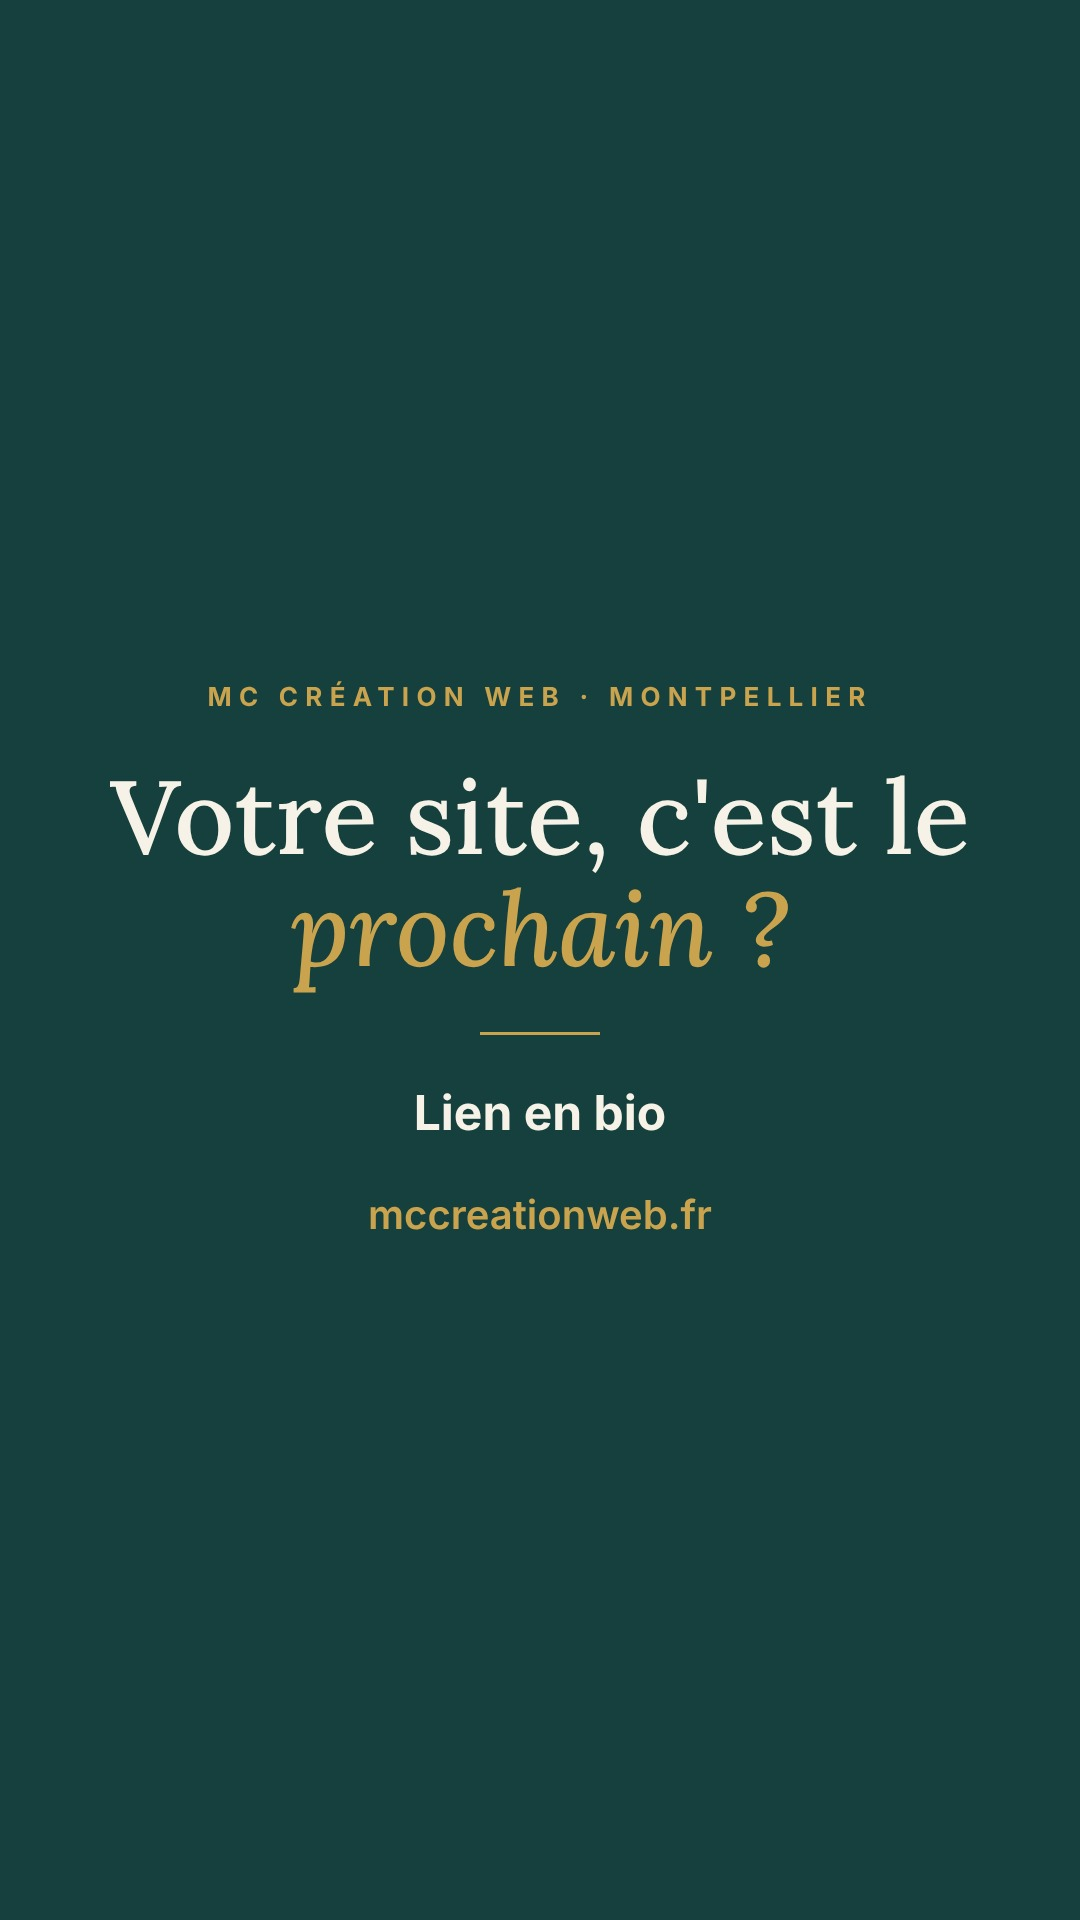
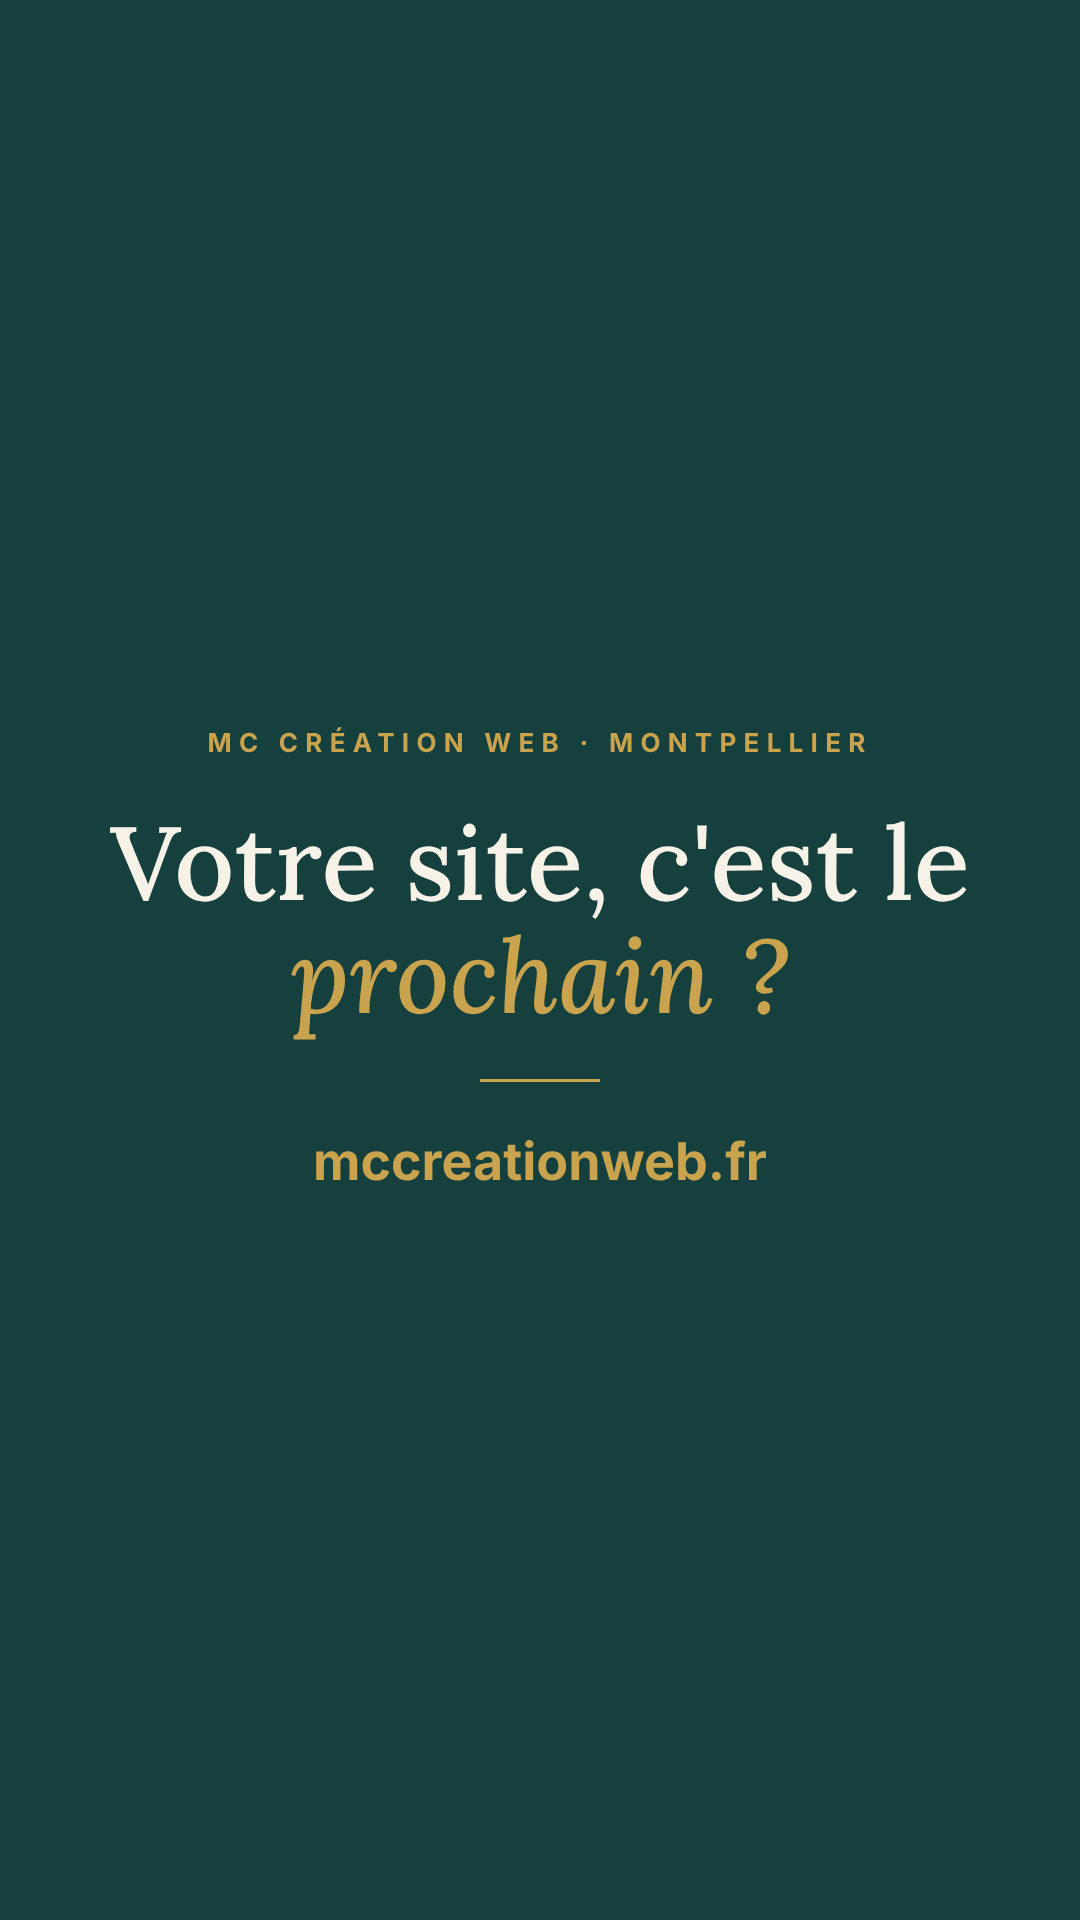
Ajoute les médias Instagram de la semaine du 17 novembre 2026
Carrousels du 17 et du 19 novembre, couverture et gabarits du Reel du 21 novembre (vidéos de Maxime à fournir), carton de fin du Reel du 12 novembre sans « Lien en bio ».

Claude-Session: https://claude.ai/code/session_01KQ8CQqkgWy1FteEuN3PgaM

Changed region(s): [[0.0917, 0.3438, 0.7944, 0.5625], [0.275, 0.5625, 0.7028, 0.6562], [0.825, 0.4062, 0.9167, 0.4688]]

diff --git a/2026-11-21-reel/A-FOURNIR.md b/2026-11-21-reel/A-FOURNIR.md
@@ -1,0 +1,44 @@
+# Reel du samedi 21 novembre 2026 · « 3 idées reçues sur Google »
+
+Statut : **en attente des vidéos de Maxime**. La couverture, les textes à l'écran, le carton de fin et le script de montage sont prêts. La légende est celle du doc de stratégie (post 9).
+
+## Ce que Maxime doit envoyer : 5 courtes vidéos face caméra
+
+Avec ta voix, sans musique. Un fichier par passage, dans cet ordre :
+
+| Fichier | Durée | Ce que tu dis |
+| --- | --- | --- |
+| `intro.mp4` | 2 à 3 s | « 3 idées reçues sur Google, et ce qu'il en est vraiment. » |
+| `idee1.mp4` | 7 à 9 s | « Il faut payer Google pour être bien placé sur la carte. » Puis : « Faux : la fiche Google est gratuite, et Google précise qu'on ne peut pas payer pour être mieux classé dans les résultats locaux, hors publicité. » |
+| `idee2.mp4` | 6 à 8 s | « Seules les grosses entreprises sortent en premier. » Puis : « Faux : pour une recherche locale, Google tient compte de la distance. Un artisan bien présenté dans sa ville a sa place. » |
+| `idee3.mp4` | 5 à 7 s | « Une fois la fiche créée, c'est fini. » Puis : « Faux : horaires, photos, avis, publications, elle doit vivre. » |
+| `question.mp4` | 3 à 4 s | « Laquelle aviez-vous déjà entendue ? Dites-le-moi en commentaire. » |
+
+Durée visée : 25 à 30 s, plus 3 s de carton de fin.
+
+### Pour le tournage
+
+- Téléphone **à la verticale**, posé à hauteur des yeux (trépied ou pile de livres), lumière du jour face à toi, pièce calme.
+- **Visage dans la moitié haute de l'image** : les textes s'affichent sur la partie basse.
+- **Parle dès la première seconde**, sans « Bonjour » ni silence au début : le Reel Peinture 34 a été regardé en moyenne 2 secondes, tout se joue au début.
+- Le tampon « FAUX » apparaît **2,8 s** après le début de chaque idée : dis « Faux » à peu près à ce moment-là. Si c'est plus tard, indique-le, je décale (`FAUX1=3.5` par exemple).
+- MP4 ou MOV, 1080p ou plus.
+
+Dépose les fichiers dans `rushes/` (noms ci-dessus) ou envoie-les en pièce jointe à Claude.
+
+## Montage (une commande)
+
+```
+./monter_reel.sh            # lit rushes/ et écrit reel.mp4
+FAUX1=3.2 FAUX3=2.5 ./monter_reel.sh   # pour décaler le tampon « FAUX » d'une idée
+```
+
+Résultat : `reel.mp4`, 1080x1920, H.264, 30 i/s, ta voix normalisée, sans musique, carton de fin « Votre site, c'est le prochain ? · mccreationweb.fr ». Script testé le 9 novembre avec des vidéos factices (paysage, portrait, avec et sans son).
+
+Ensuite : pousser `reel.mp4` ici, puis compléter le brouillon Metricool du samedi 21 novembre à 12 h 15 (Instagram REEL, Facebook REEL titre « 3 idées reçues sur Google », TikTok), couverture `couverture.jpg`.
+
+## Fichiers
+
+- `couverture.jpg` : couverture 1080x1350 (ta photo, « 3 idées reçues sur Google »). Une image tirée de ta vidéo peut la remplacer si tu préfères.
+- `gabarits/` : `ov_intro.png`, `ov_ideeN_carte.png` (la phrase), `ov_ideeN_faux.png` (la phrase, le tampon FAUX et la réponse), `ov_question.png`, `fin.png` (1080x1920)
+- `monter_reel.sh` : script ffmpeg

diff --git a/2026-11-12-reel/A-FOURNIR.md b/2026-11-12-reel/A-FOURNIR.md
@@ -16,7 +16,7 @@ Dépose-les dans `rushes/` (noms : `plan_debut.mp4`, `ecran.mp4`, `plan_fin.mp4`
 ./monter_reel.sh rushes/plan_debut.mp4 rushes/ecran.mp4 rushes/plan_fin.mp4 reel.mp4
 ```
 
-Résultat : `reel.mp4`, 1080x1920, H.264, ~27 s (3,5 s début + 17 s écran avec 4 textes + 3,5 s fin + 3 s carton « Votre site, c'est le prochain ? Lien en bio · mccreationweb.fr »), piste audio muette.
+Résultat : `reel.mp4`, 1080x1920, H.264, ~27 s (3,5 s début + 17 s écran avec 4 textes + 3,5 s fin + 3 s carton « Votre site, c'est le prochain ? · mccreationweb.fr »), piste audio muette.
 
 Ensuite : pousser `reel.mp4` ici, puis créer le brouillon Metricool (Instagram REEL + Facebook REEL, titre Facebook « De la maquette à la mise en ligne, en accéléré », couverture `couverture.jpg`, jeudi 12 novembre 18 h 30, légende du doc de stratégie, post 5).
 
